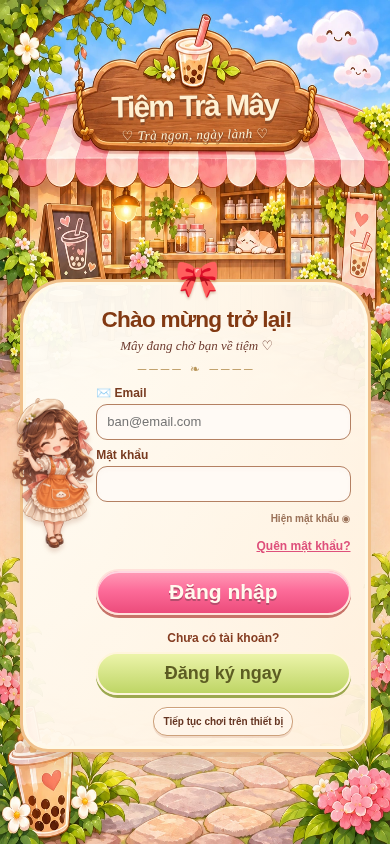
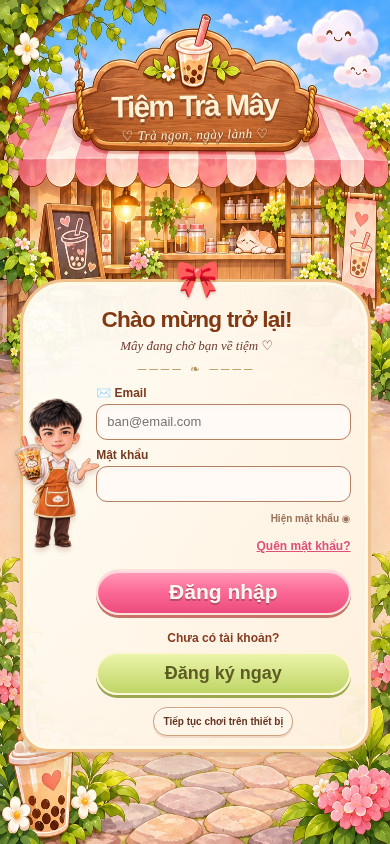
Use owner's chibi portrait and show clear login and registration feedback

Changed region(s): [[0.0308, 0.4621, 0.2462, 0.6777]]

diff --git a/src/account/AccountPanel.tsx b/src/account/AccountPanel.tsx
@@ -39,6 +39,7 @@ export function AccountPanel({
   const [name, setName] = useState("Chủ Tiệm An"),
     [message, setMessage] = useState(""),
     [busy, setBusy] = useState(false);
+  const [messageKind, setMessageKind] = useState<"info"|"error"|"success">("info");
   const [showPassword, setShowPassword] = useState(false);
   const [offline, setOffline] = useState(!navigator.onLine);
   useEffect(() => {
@@ -92,9 +93,11 @@ export function AccountPanel({
   async function perform(work: () => Promise<void>) {
     setBusy(true);
     setMessage("");
+    setMessageKind("info");
     try {
       await work();
     } catch (error) {
+      setMessageKind("error");
       setMessage(error instanceof Error ? error.message : String(error));
     } finally {
       setBusy(false);
@@ -105,6 +108,8 @@ export function AccountPanel({
   function submit(event: FormEvent) {
     event.preventDefault();
     void perform(async () => {
+      if (!accountConfigured) throw Error("Tài khoản online chưa được kết nối máy chủ. Chủ game cần hoàn tất cấu hình Supabase trước khi đăng ký hoặc đăng nhập. Bạn vẫn có thể chọn chơi trên thiết bị.");
+      if (offline) throw Error("Bạn đang mất mạng. Hãy kết nối Internet rồi thử lại.");
       if (mode === "recover") {
         await recover(email);
         setMessage(
@@ -125,16 +130,20 @@ export function AccountPanel({
       if (mode === "register") {
         const active = await signUp(email, password, name);
         if (active) {
+          setMessageKind("success");
+          setMessage("Đăng ký thành công. Đang mở tiệm của bạn…");
           await useGame.getState().enterOnline();
           onEntered?.();
         }
         setMessage(
           active
-            ? "Đã tạo tài khoản."
-            : "Hãy kiểm tra email để xác minh và tiếp tục đăng nhập. Nếu đã có tài khoản, hãy dùng Đăng nhập hoặc Quên mật khẩu.",
+            ? "Đăng ký thành công."
+            : "Đã gửi yêu cầu đăng ký. Hãy mở email xác nhận để hoàn tất, sau đó quay lại đăng nhập. Nếu đã có tài khoản, chọn Đăng nhập hoặc Quên mật khẩu.",
         );
       } else {
         await signIn(email, password);
+        setMessageKind("success");
+        setMessage("Đăng nhập thành công. Đang tải tiến trình và mở tiệm…");
         await useGame.getState().enterOnline();
         onEntered?.();
       }
@@ -177,14 +186,14 @@ export function AccountPanel({
       {fullPage && (
         <img
           className="account-host"
-          src="/assets/auth-host.webp"
-          alt="Mây chào bạn"
+          src="/assets/owner-chibi.webp"
+          alt="Chủ tiệm chibi cầm ly trà sữa"
         />
       )}
+      {message && <p role={messageKind === "error" ? "alert" : "status"} className={`account-feedback account-feedback-${messageKind}`} aria-live="polite">{message}</p>}
       {!accountConfigured && (
         <p className="account-banner config-banner">
-          Tài khoản online chưa được cấu hình. Tiến trình trên thiết bị vẫn được
-          giữ nguyên. Cần thiết lập Supabase để đăng ký và đồng bộ.
+          Đăng nhập online đang chờ kết nối máy chủ. Bản lưu trên thiết bị vẫn dùng được.
         </p>
       )}
       {offline && (
@@ -385,10 +394,17 @@ export function AccountPanel({
             )}
             <button
               className="primary account-submit"
-              disabled={busy || !accountConfigured || offline}
+              disabled={busy}
+              onClick={event => {
+                if(!accountConfigured || offline){
+                  event.preventDefault();
+                  setMessageKind("error");
+                  setMessage(!accountConfigured ? "Tài khoản online chưa được kết nối máy chủ. Chủ game cần hoàn tất cấu hình Supabase trước khi đăng ký hoặc đăng nhập. Bạn vẫn có thể chọn chơi trên thiết bị." : "Bạn đang mất mạng. Hãy kết nối Internet rồi thử lại.");
+                }
+              }}
             >
               {busy
-                ? "Đang xử lý…"
+                ? mode === "register" ? "Đang đăng ký…" : mode === "login" ? "Đang đăng nhập…" : "Đang xử lý…"
                 : {
                     login: "Đăng nhập",
                     register: "Tạo tài khoản",
@@ -410,11 +426,6 @@ export function AccountPanel({
             {mode === "login" ? "Đăng ký ngay" : "Đăng nhập"}
           </button>
         </>
-      )}
-      {message && (
-        <p role="status" className="account-banner">
-          {message}
-        </p>
       )}
       <button
         className="account-link guest-button"

diff --git a/tests/accounts/auth.spec.ts b/tests/accounts/auth.spec.ts
@@ -151,7 +151,7 @@ test("account contract: failed cloud load never enters a guest game, and wrong l
   await page.getByLabel("Email", { exact: false }).fill("missing@example.test");
   await page.getByLabel("Mật khẩu", { exact: true }).fill("wrong");
   await page.getByRole("button", { name: "Đăng nhập", exact: true }).click();
-  await expect(page.getByRole("status")).toContainText(
+  await expect(page.getByRole("alert")).toContainText(
     "Email hoặc mật khẩu chưa đúng",
   );
   await expect(page.locator(".game")).toHaveCount(0);
@@ -165,7 +165,7 @@ test("account contract: failed cloud load never enters a guest game, and wrong l
   await page
     .getByRole("button", { name: "Tạo tài khoản", exact: true })
     .click();
-  await expect(page.getByRole("status")).toContainText("chưa trùng khớp");
+  await expect(page.getByRole("alert")).toContainText("chưa trùng khớp");
   await expect(page.locator(".game")).toHaveCount(0);
   await page
     .getByLabel("Xác nhận mật khẩu", { exact: true })
@@ -220,3 +220,9 @@ for (const [width, height] of [
       ),
     ).toBe(true);
   });
+
+test('registration requiring email confirmation gives clear next steps and does not pretend the user is signed in',async({page,context})=>{
+ const backend=service();await backend.install(context);
+ await context.route('https://may-test.supabase.co/auth/v1/signup',route=>route.fulfill({status:200,contentType:'application/json',body:JSON.stringify({user:{id:'pending-confirmation'}})}));
+ await page.goto('/');await page.getByRole('button',{name:'Đăng ký ngay',exact:true}).click();await page.getByLabel('Tên chủ quán',{exact:false}).fill('Chủ Tiệm An');await page.getByLabel('Email',{exact:false}).fill('an@example.test');await page.getByLabel('Mật khẩu',{exact:true}).fill('TiemTraMay123!');await page.getByLabel('Xác nhận mật khẩu',{exact:true}).fill('TiemTraMay123!');await page.getByRole('button',{name:'Tạo tài khoản',exact:true}).click();await expect(page.getByRole('status')).toContainText('Đã gửi yêu cầu đăng ký');await expect(page.getByRole('status')).toContainText('email xác nhận');await expect(page.locator('.game')).toHaveCount(0);
+});

diff --git a/tests/e2e/auth-feedback.spec.ts b/tests/e2e/auth-feedback.spec.ts
@@ -1,0 +1,4 @@
+import {test,expect} from '@playwright/test';
+test('unconfigured login and registration buttons respond with a visible explanation instead of ignoring clicks',async({page})=>{
+ await page.setViewportSize({width:390,height:844});await page.goto('/');const login=page.getByRole('button',{name:'Đăng nhập',exact:true});await expect(login).toBeEnabled();await login.click();await expect(page.getByRole('alert')).toContainText('chưa được kết nối máy chủ');await expect(page.locator('.game')).toHaveCount(0);await page.getByRole('button',{name:'Đăng ký ngay',exact:true}).click();const register=page.getByRole('button',{name:'Tạo tài khoản',exact:true});await expect(register).toBeEnabled();await register.click();await expect(page.getByRole('alert')).toContainText('Supabase');await expect(page.locator('.game')).toHaveCount(0);await page.screenshot({path:'screenshots/owner-registration-feedback.png',fullPage:true});await expect(page.locator('.account-host')).toHaveAttribute('src','/assets/owner-chibi.webp');expect(await page.locator('.account-host').evaluate((image:HTMLImageElement)=>image.complete&&image.naturalWidth>0)).toBe(true);
+});

diff --git a/src/account/account.css b/src/account/account.css
@@ -16,3 +16,4 @@
 .account-stat-grid { display: grid; grid-template-columns: 1fr 1fr; gap: 10px; margin: 16px 0; }
 .account-stat-grid span { background: #ffead7; padding: 12px; border-radius: 12px; font-size: 11px; }
 .account-stat-grid b { display: block; margin-top: 5px; font-size: 13px; overflow-wrap: anywhere; }
+.account-feedback{padding:10px 12px;border:1px solid #cfaa7a;border-radius:12px;font-size:12px;line-height:1.5;background:#fff4d9;overflow-wrap:anywhere;margin:8px 0 12px;scroll-margin:20px}.account-feedback-error{border-color:#da8f8d;background:#fff0eb;color:#983c36}.account-feedback-success{border-color:#8fb96e;background:#eff8e3;color:#3c652e}.account-full .account-feedback{font-size:11px;padding:9px;line-height:1.5}

diff --git a/UPDATE_ACCOUNTS_INCIDENTS.md b/UPDATE_ACCOUNTS_INCIDENTS.md
@@ -64,3 +64,11 @@ Các kết quả cuối và ảnh được ghi trong `evidence/account-incidents
 Đã sửa lỗi thông báo sự cố che nút kết sổ/đóng modal trong lần kiểm thử đầu. Thông báo hiện ở vùng lời chào, dưới modal và không chặn thao tác qua phần chữ. Đã bổ sung cách thu hồi qua camera trong Sự kiện sau khi người chơi đóng thông báo.
 
 Chưa kiểm thử Supabase thật, email thật, SQL/RLS trên project thật hoặc deploy Vercel vì môi trường không có cấu hình/quyền truy cập các dịch vụ đó. Không coi các test mô phỏng là bằng chứng triển khai online thành công.
+
+## Ảnh chủ tiệm và phản hồi đăng nhập
+
+Đã thay nhân vật trên trang tài khoản bằng chibi chủ tiệm cầm trà sữa tại `public/assets/owner-chibi.webp`, dùng ảnh do người dùng yêu cầu tạo. Ảnh nền trong suốt, tối ưu WebP; ảnh màn hình đăng nhập/đăng ký đã được cập nhật.
+
+Đã sửa nút đăng nhập/đăng ký không phản hồi khi thiếu Supabase: nút không còn bị vô hiệu hóa âm thầm, bấm sẽ hiện giải thích rõ trong thẻ form. Có trạng thái đang đăng nhập/đăng ký, thông báo xác nhận email, lỗi rõ ràng và tự mở game khi xác thực và tải save server đều thành công. Không tạo tài khoản giả trên localStorage hoặc hiển thị đăng ký thành công khi dịch vụ chưa cấu hình.
+
+Xác minh bản sửa: 7/7 E2E tài khoản với server mô phỏng, 1/1 E2E khi chưa cấu hình, typecheck, lint và production build đạt. Log ở `evidence/owner-login/`. Chưa có Supabase project/configuration trong môi trường để kiểm thử đăng ký/email/đồng bộ trên dịch vụ thật; chủ game cần tạo project, chạy migration/function và điền `VITE_SUPABASE_URL`, `VITE_SUPABASE_ANON_KEY` trên Vercel theo `docs/ACCOUNTS.md` rồi redeploy.
